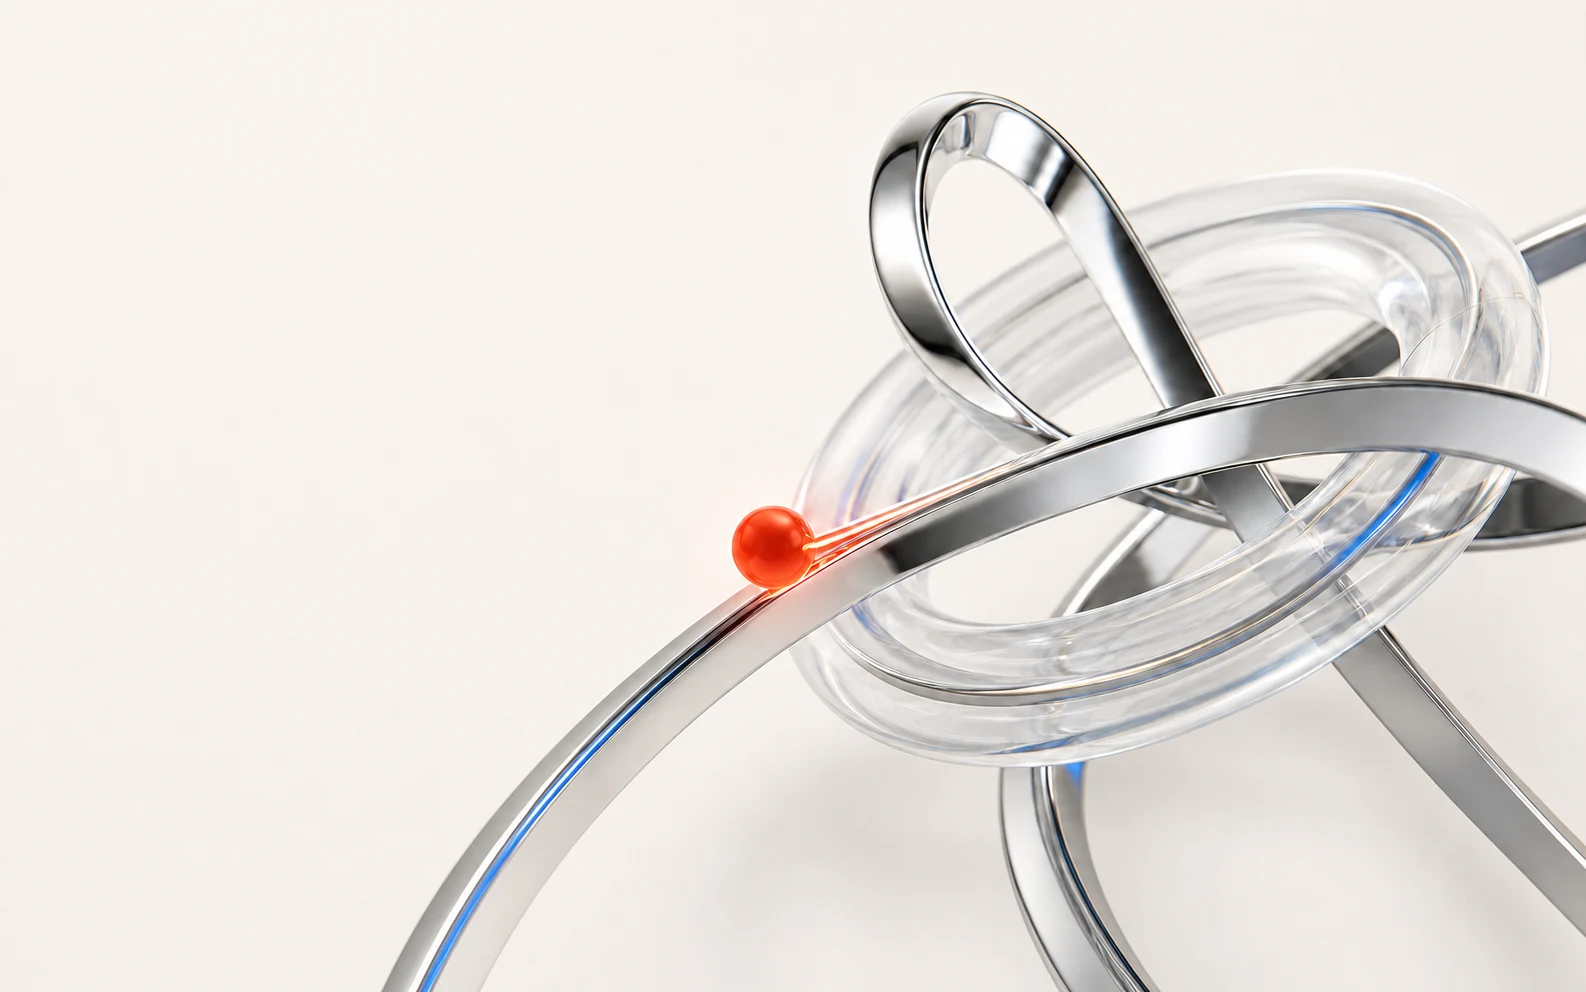
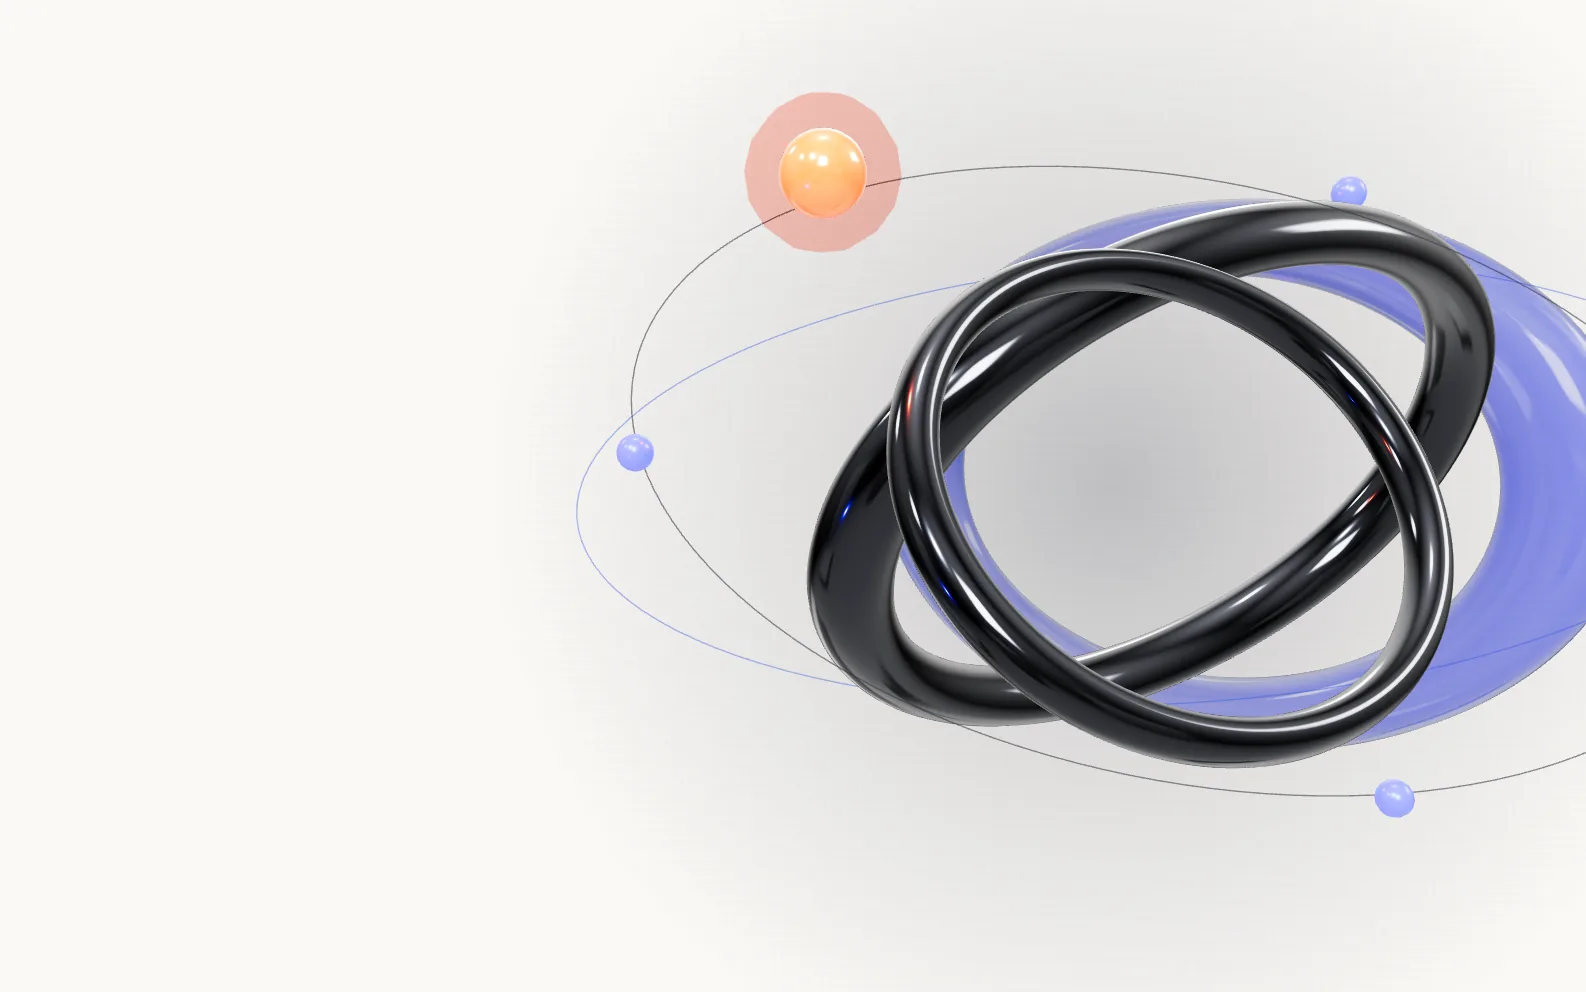
Make the hero 3D actually visible on the paper design
The creation-core sculpture rendered as near-white chrome + transmission
0.94 glass on the paper background - practically invisible (user report).

- Chrome -> gunmetal (dark body, white env speculars carry the chrome read)
- Glass -> cobalt tint with real body (transmission 0.55, opacity 0.85)
- New radial ink halo behind the sculpture anchors it on the paper
  (fades out toward the dark closing section)
- Orbit lines/bead/cobalt points enlarged; orbit color lerps ink->silver
  with the closing morph; fragments (dark section only) stay bright silver
- Hero veil gradient pulled back to 52% so the sculpture zone is clear;
  mobile veil rebuilt as a vertical gradient (old horizontal one washed
  out the sculpture at every phone width)
- Bead orbit gets a +2.4 rad base phase so the reduced-motion frozen pose
  keeps it on-screen; heroScale capped by right margin on squarish windows
- Poster re-rendered from the new scene (frozen pose) so the poster->GL
  crossfade is seamless and 3D-off users see the current design

Adversarially reviewed (9 agents): 5 confirmed findings, all addressed.
Contrast metric in the sculpture zone: 25% -> 61% visible pixels.

Changed region(s): [[0.2472, 0.0938, 1.0, 1.0], [0.3707, 0.4375, 0.4325, 0.4688]]

diff --git a/src/portfolio/gl/glScene.ts b/src/portfolio/gl/glScene.ts
@@ -21,6 +21,8 @@ const VERMILION = 0xff3b1f;
 const COBALT = 0x164cff;
 const ORBIT_RX = 2.34;
 const ORBIT_RY = 1.24;
+const ORBIT_INK = new THREE.Color(0x363a46);
+const ORBIT_SILVER = new THREE.Color(0x9aa4b8);
 const CLOSING_SELECTORS = "[data-creation-close], #closing, .closing-section, footer";
 
 function clamp01(value: number): number {
@@ -32,14 +34,17 @@ function smoothstep(edge0: number, edge1: number, value: number): number {
   return x * x * (3 - 2 * x);
 }
 
-function createChromeMaterial(opacity = 1): THREE.MeshPhysicalMaterial {
+// Gunmetal, not silver: near-white chrome disappears into the paper background
+// (its highlights blow out to the paper tone). A dark body keeps the sculpture
+// legible on paper while the white env speculars carry the "chrome" read.
+function createChromeMaterial(opacity = 1, color = 0x2b2e36): THREE.MeshPhysicalMaterial {
   return new THREE.MeshPhysicalMaterial({
-    color: 0xf3f5f7,
+    color,
     metalness: 1,
-    roughness: 0.105,
+    roughness: 0.12,
     clearcoat: 1,
-    clearcoatRoughness: 0.045,
-    envMapIntensity: 2.3,
+    clearcoatRoughness: 0.05,
+    envMapIntensity: 2.1,
     transparent: true,
     opacity,
     depthWrite: false,
@@ -47,22 +52,49 @@ function createChromeMaterial(opacity = 1): THREE.MeshPhysicalMaterial {
   });
 }
 
-function createGlassMaterial(opacity = 0.68): THREE.MeshPhysicalMaterial {
+// Cobalt-tinted glass with real body — transmission 0.94 rendered as an
+// invisible ghost against the paper.
+function createGlassMaterial(opacity = 0.85, color = 0x4f6cff): THREE.MeshPhysicalMaterial {
   return new THREE.MeshPhysicalMaterial({
-    color: 0xe7efff,
-    metalness: 0.03,
-    roughness: 0.045,
-    transmission: 0.94,
-    thickness: 0.72,
+    color,
+    metalness: 0.05,
+    roughness: 0.06,
+    transmission: 0.55,
+    thickness: 0.9,
     ior: 1.46,
     clearcoat: 1,
-    clearcoatRoughness: 0.025,
-    envMapIntensity: 2.5,
+    clearcoatRoughness: 0.03,
+    envMapIntensity: 2.2,
     transparent: true,
     opacity,
     depthWrite: false,
     side: THREE.DoubleSide
   });
+}
+
+/** Soft radial ink wash behind the sculpture so it sits ON the paper instead of
+ * dissolving into it. Faded out as the closing morph takes over (dark bg). */
+function createHaloTexture(): THREE.CanvasTexture {
+  const size = 256;
+  const canvas = document.createElement("canvas");
+  canvas.width = size;
+  canvas.height = size;
+  const ctx = canvas.getContext("2d");
+  if (ctx) {
+    const gradient = ctx.createRadialGradient(size / 2, size / 2, 0, size / 2, size / 2, size / 2);
+    gradient.addColorStop(0, "rgba(18, 19, 26, 0.34)");
+    gradient.addColorStop(0.45, "rgba(18, 19, 26, 0.16)");
+    gradient.addColorStop(1, "rgba(18, 19, 26, 0)");
+    ctx.fillStyle = gradient;
+    ctx.fillRect(0, 0, size, size);
+  }
+  const texture = new THREE.CanvasTexture(canvas);
+  // Intentionally left untagged (NoColorSpace): the bytes are read as linear and
+  // the output sRGB encode lightens them, so the wash RENDERS as ~rgb(75,77,90)
+  // at these alphas — the look was tuned and verified this way. Tagging it
+  // SRGBColorSpace (or retuning stops by face value) would change the halo.
+  texture.needsUpdate = true;
+  return texture;
 }
 
 function ellipseLine(
@@ -127,14 +159,29 @@ function initialiseScene(
   root.name = "creation-core";
   scene.add(root);
 
+  const haloTexture = createHaloTexture();
+  const haloMaterial = new THREE.MeshBasicMaterial({
+    map: haloTexture,
+    transparent: true,
+    depthWrite: false,
+    toneMapped: false
+  });
+  const halo = new THREE.Mesh(new THREE.PlaneGeometry(6.4, 6.4), haloMaterial);
+  halo.name = "creation-core-halo";
+  halo.position.z = -1.4;
+  halo.renderOrder = -1;
+  root.add(halo);
+
   const intact = new THREE.Group();
   intact.name = "creation-core-intact";
   root.add(intact);
 
+  // Intact loops live on the light hero paper -> gunmetal for contrast.
+  // Fragments only exist over the dark closing section -> bright silver there.
   const intactChrome = createChromeMaterial();
   const intactGlass = createGlassMaterial(0.7);
-  const fragmentChrome = createChromeMaterial(0);
-  const fragmentGlass = createGlassMaterial(0);
+  const fragmentChrome = createChromeMaterial(0, 0xdfe4ec);
+  const fragmentGlass = createGlassMaterial(0, 0x9db4ff);
 
   const fading: FadingMaterial[] = [
     { material: intactChrome, opacity: 1 },
@@ -227,8 +274,8 @@ function initialiseScene(
     ORBIT_RX,
     ORBIT_RY,
     quality.tier === "low" ? 72 : 128,
-    0x65718b,
-    0.23
+    0x363a46,
+    0.52
   );
   orbit.add(orbitMain);
   const orbitSecondary = ellipseLine(
@@ -236,7 +283,7 @@ function initialiseScene(
     ORBIT_RY * 0.77,
     quality.tier === "low" ? 64 : 112,
     COBALT,
-    0.16
+    0.36
   );
   orbitSecondary.rotation.z = 0.26;
   orbitSecondary.position.z = -0.25;
@@ -247,7 +294,7 @@ function initialiseScene(
   const beadMaterial = new THREE.MeshPhysicalMaterial({
     color: VERMILION,
     emissive: VERMILION,
-    emissiveIntensity: 0.72,
+    emissiveIntensity: 1.15,
     metalness: 0.08,
     roughness: 0.16,
     clearcoat: 1,
@@ -255,18 +302,18 @@ function initialiseScene(
   });
   bead.add(
     new THREE.Mesh(
-      new THREE.SphereGeometry(0.13, quality.tier === "low" ? 12 : 20, quality.tier === "low" ? 8 : 14),
+      new THREE.SphereGeometry(0.17, quality.tier === "low" ? 12 : 20, quality.tier === "low" ? 8 : 14),
       beadMaterial
     )
   );
   const beadGlowMaterial = new THREE.MeshBasicMaterial({
     color: VERMILION,
     transparent: true,
-    opacity: 0.14,
+    opacity: 0.28,
     blending: THREE.AdditiveBlending,
     depthWrite: false
   });
-  const beadGlow = new THREE.Mesh(new THREE.SphereGeometry(0.21, 12, 8), beadGlowMaterial);
+  const beadGlow = new THREE.Mesh(new THREE.SphereGeometry(0.3, 12, 8), beadGlowMaterial);
   bead.add(beadGlow);
 
   const cobaltMaterial = new THREE.MeshStandardMaterial({
@@ -277,7 +324,7 @@ function initialiseScene(
     metalness: 0.2
   });
   const cobaltPoints: THREE.Mesh[] = [];
-  const cobaltGeometry = new THREE.SphereGeometry(0.045, quality.tier === "low" ? 8 : 12, 8);
+  const cobaltGeometry = new THREE.SphereGeometry(0.075, quality.tier === "low" ? 8 : 12, 8);
   for (let i = 0; i < 3; i += 1) {
     const point = new THREE.Mesh(cobaltGeometry, cobaltMaterial);
     root.add(point);
@@ -338,7 +385,18 @@ function initialiseScene(
     const compact = width < 900;
     heroX = compact ? worldWidth * 0.08 : worldWidth * 0.25;
     heroY = compact ? -worldHeight * 0.12 : worldHeight * 0.015;
-    heroScale = compact ? 0.95 : Math.min(1.72, Math.max(1.5, worldWidth / 7.6));
+    // Third clamp: on squarish windows (5:4, portrait-ish desktop) the right
+    // margin shrinks and the knot would crop ~10%vw; cap it by the available
+    // margin (knot +x extent ≈1.6 world at scale 1) with a 1.5 floor. At 16:9
+    // and 16:10 this clamp stays above the other terms — the slight intentional
+    // edge bleed of the verified look is preserved.
+    heroScale = compact
+      ? 1.08
+      : Math.min(
+          1.95,
+          Math.max(1.68, worldWidth / 6.8),
+          Math.max(1.5, (worldWidth / 2 - heroX) / 1.6)
+        );
 
     const x = worldWidth * (compact ? 0.22 : 0.31);
     const y = worldHeight * (compact ? 0.22 : 0.24);
@@ -387,6 +445,10 @@ function initialiseScene(
     const open = smoothstep(0.04, 0.98, morph);
     const intactOpacity = 1 - smoothstep(0.06, 0.68, morph);
     const fragmentOpacity = smoothstep(0.16, 0.82, morph);
+    // The ink wash anchors the sculpture on the light hero paper; the dark
+    // closing section doesn't need it.
+    haloMaterial.opacity = 1 - open;
+    halo.visible = haloMaterial.opacity > 0.02;
     intact.visible = intactOpacity > 0.002;
     fragments.visible = fragmentOpacity > 0.002;
     fading[0].material.opacity = fading[0].opacity * intactOpacity;
@@ -439,10 +501,15 @@ function initialiseScene(
     const orbitScaleY = THREE.MathUtils.lerp(1, (worldHeight * 0.31) / ORBIT_RY, open);
     orbit.scale.set(orbitScaleX, orbitScaleY, 1);
     orbit.rotation.z = THREE.MathUtils.lerp(-0.16, -0.035, open);
-    orbitMain.material.opacity = THREE.MathUtils.lerp(0.23, 0.3, open);
-    orbitSecondary.material.opacity = THREE.MathUtils.lerp(0.16, 0.25, open);
+    orbitMain.material.opacity = THREE.MathUtils.lerp(0.52, 0.42, open);
+    orbitSecondary.material.opacity = THREE.MathUtils.lerp(0.36, 0.32, open);
+    // Ink lines on paper, silver lines on the dark closing.
+    orbitMain.material.color.lerpColors(ORBIT_INK, ORBIT_SILVER, open);
 
-    const orbitAngle = time * 0.34 + open * 0.72;
+    // +2.4 base phase: reduced-motion freezes time at 0, and angle 0 parks the
+    // bead off the right viewport edge at every common aspect. This keeps the
+    // frozen pose on-screen; for animated users it is an invisible offset.
+    const orbitAngle = time * 0.34 + open * 0.72 + 2.4;
     const orbitCos = Math.cos(orbit.rotation.z);
     const orbitSin = Math.sin(orbit.rotation.z);
     const placeOnOrbit = (object: THREE.Object3D, angle: number, z: number): void => {
@@ -523,6 +590,7 @@ function initialiseScene(
       });
       geometries.forEach((geometry) => geometry.dispose());
       materials.forEach((material) => material.dispose());
+      haloTexture.dispose();
       environment.dispose();
       renderer.dispose();
       scene.clear();

diff --git a/src/portfolio/portfolio.css b/src/portfolio/portfolio.css
@@ -464,12 +464,14 @@ pre {
   inset: 0 0 116px;
   z-index: 1;
   pointer-events: none;
+  /* Veil only the text column — the sculpture zone (right half) must stay
+     fully clear or the 3D reads as an invisible background. */
   background: linear-gradient(
     90deg,
-    rgba(251, 249, 246, 0.99) 0%,
-    rgba(251, 249, 246, 0.97) 25%,
-    rgba(251, 249, 246, 0.72) 40%,
-    rgba(251, 249, 246, 0) 60%
+    rgba(251, 249, 246, 0.96) 0%,
+    rgba(251, 249, 246, 0.88) 22%,
+    rgba(251, 249, 246, 0.4) 38%,
+    rgba(251, 249, 246, 0) 52%
   );
 }
 
@@ -1989,12 +1991,16 @@ pre {
 
   .hero::after {
     inset: 0 0 112px;
+    /* Mobile stacks text on top and the sculpture below (~62vh), so the veil
+       must be vertical: protect the copy block, keep the sculpture zone clear.
+       The old horizontal veil left a 0.6-1.0 paper wash over the sculpture and
+       negated the 3D-visibility fix on every phone width. */
     background: linear-gradient(
-      90deg,
-      rgba(251, 249, 246, 1) 0%,
-      rgba(251, 249, 246, 0.96) 47%,
-      rgba(251, 249, 246, 0.6) 70%,
-      rgba(251, 249, 246, 0.12) 100%
+      180deg,
+      rgba(251, 249, 246, 0.95) 0%,
+      rgba(251, 249, 246, 0.85) 34%,
+      rgba(251, 249, 246, 0.25) 48%,
+      rgba(251, 249, 246, 0) 60%
     );
   }
 